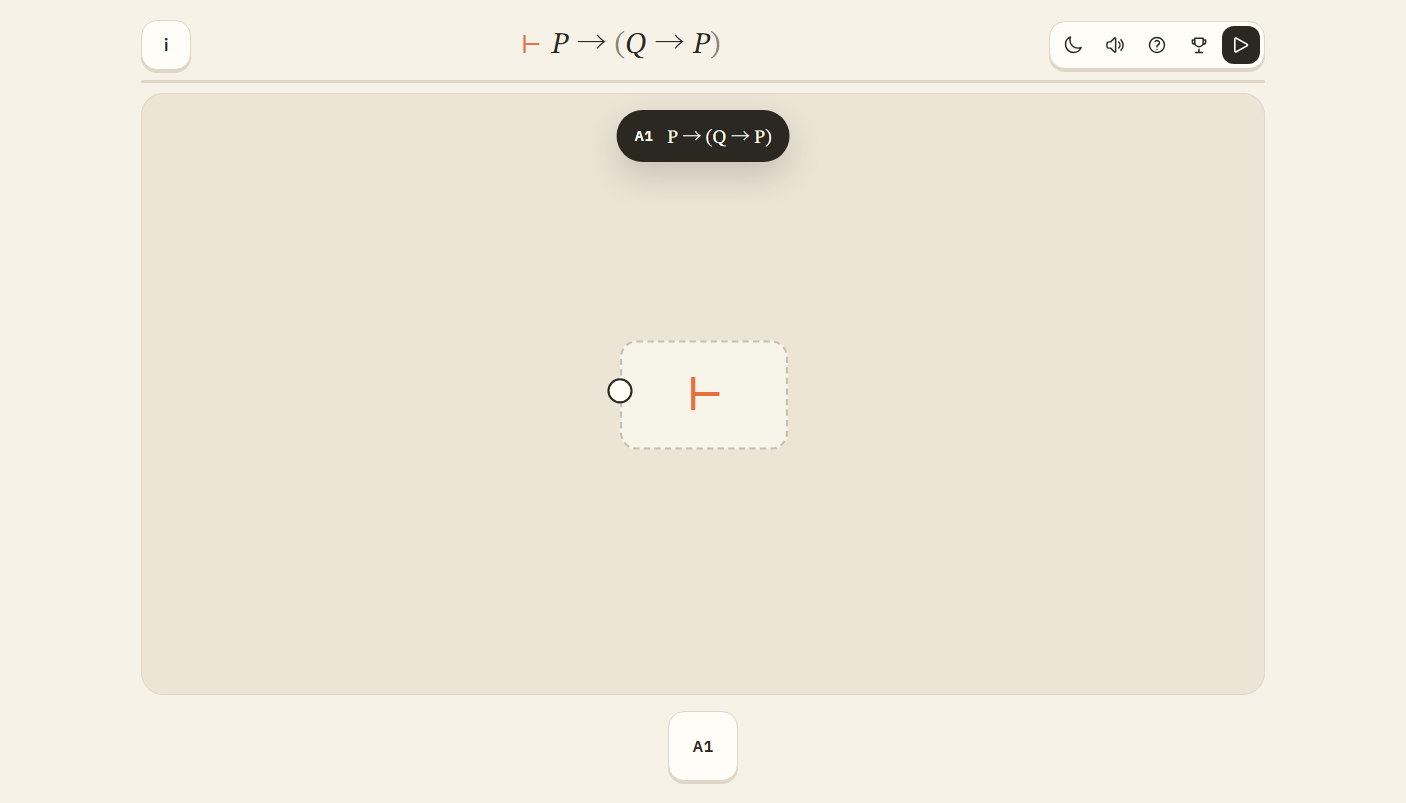
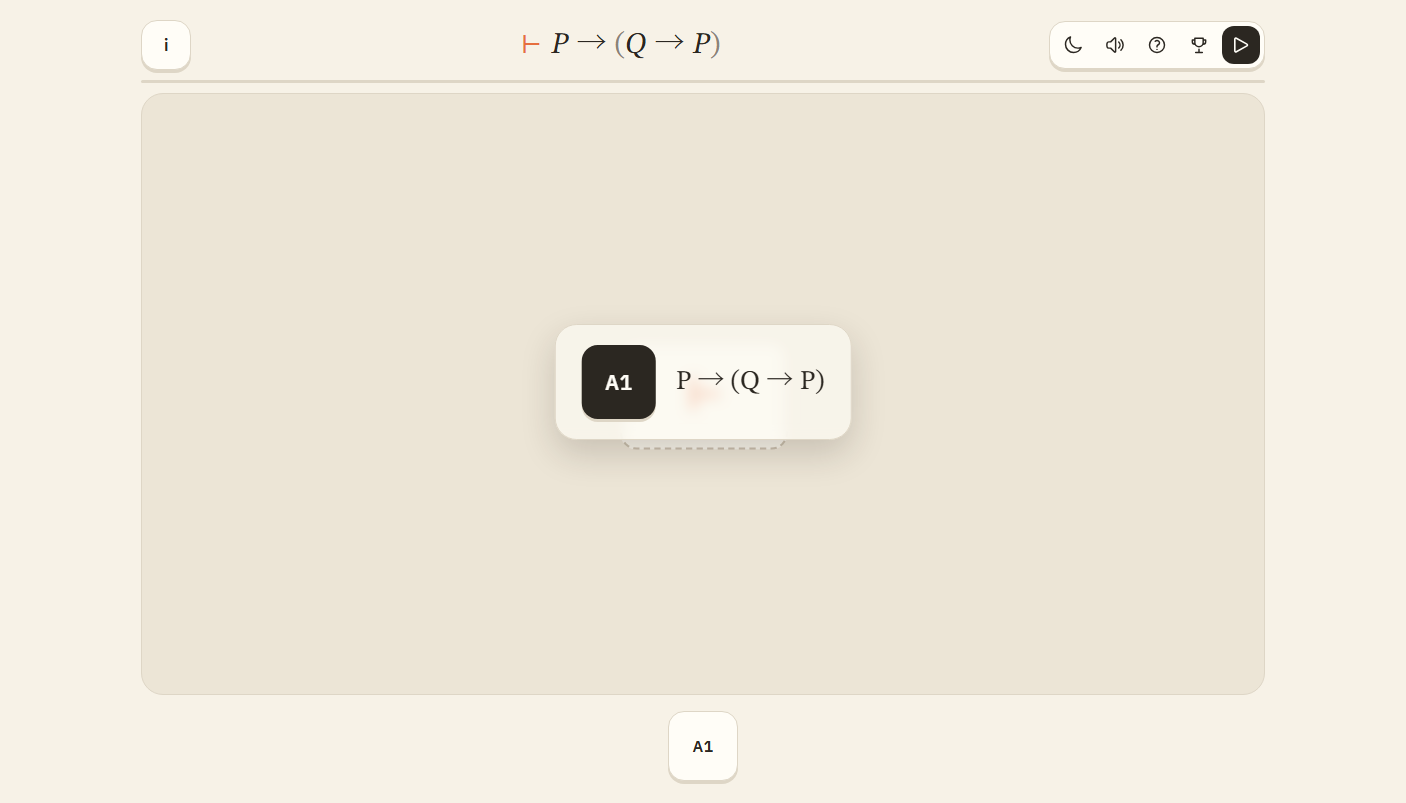
Center tutorial hint, enlarge tutorial chips, tame close-port wires
- tutorial tip is a centered glass card again: code tile + rule formula,
  dismiss on the first board interaction, no Chinese.
- level select third pass: beige sheet, white sticker chapter cards, big
  accent roman numerals, per-band progress removed, tutorial entries are
  larger accent pills instead of tiny roman text.
- adaptive wire stubs: when ports are closer than two stubs, the stub is
  shortened (or dropped) so A* no longer starts/ends past each other and
  loops; simple/cheap/draft paths share the same rule.
- refresh README screenshots and design notes for the centered hint and the
  new level-select layout.
- 114 levels compile, npm test 5/5, route 11/11, game-ui 28/28, acceptance
  green; .maintenance stays.

Changed region(s): [[0.3976, 0.4047, 0.5811, 0.5604], [0.4282, 0.1245, 0.5811, 0.2179]]

diff --git a/src/simple.css b/src/simple.css
@@ -520,18 +520,23 @@ button{font:inherit;color:inherit;border:0;background:none;padding:0;cursor:poin
 body.is-holding,
 body.is-holding *{cursor:grabbing!important}
 
-/* 教学关浮窗：只显示本关演示元件的代号与规则式，不放汉字 */
+/* 教学关浮窗：棋盘正中的规则卡，只显示本关元件的代号与规则式，不放汉字 */
 .tutorial-tip{
-  position:absolute;left:50%;top:16px;z-index:6;transform:translateX(-50%);
-  display:flex;align-items:center;gap:14px;max-width:calc(100vw - 32px);
-  padding:11px 18px;border-radius:var(--radius-pill);
-  background:var(--stamp-bg);color:var(--stamp-fg);
+  position:absolute;left:50%;top:48%;z-index:20;transform:translate(-50%,-50%);
+  display:flex;align-items:center;gap:20px;max-width:min(640px,calc(100vw - 40px));
+  padding:20px 26px;border-radius:var(--radius-lg);
+  background:var(--glass);border:1.5px solid var(--line);
   box-shadow:var(--pop-shadow);pointer-events:none;
+  -webkit-backdrop-filter:blur(7px);backdrop-filter:blur(7px);
   animation:tip-in .18s var(--ease);
 }
-.tip-code{font-family:var(--font);font-weight:600;font-size:14px;letter-spacing:.02em}
-.tip-flow{font-family:var(--math);font-size:19px;white-space:nowrap}
-@keyframes tip-in{from{opacity:0;transform:translate(-50%,-4px)}to{opacity:1;transform:translate(-50%,0)}}
+.tip-code{
+  display:grid;place-items:center;min-width:74px;height:74px;padding:0 14px;
+  border-radius:var(--radius);background:var(--stamp-bg);color:var(--stamp-fg);
+  box-shadow:var(--sticker);font-family:var(--font);font-weight:600;font-size:21px;letter-spacing:.02em;
+}
+.tip-flow{font-family:var(--math);font-size:clamp(18px,2.5vw,27px);line-height:1.25;color:var(--ink);white-space:normal}
+@keyframes tip-in{from{opacity:0;transform:translate(-50%,-50%) scale(.96)}to{opacity:1;transform:translate(-50%,-50%) scale(1)}}
 
 /* =========================================================================
  * 13 配置浮条 popover
@@ -651,72 +656,72 @@ body.is-holding *{cursor:grabbing!important}
  * 16 选关面板 levels
  * ========================================================================= */
 
-.sheet.sheet-levels{width:min(700px,100%)}
+.sheet.sheet-levels{
+  width:min(680px,100%);
+  background:var(--bg);border:1px solid var(--line);
+  box-shadow:var(--sheet-shadow);
+}
 
-.chapters{display:flex;flex-direction:column;gap:18px;padding-top:4px}
+.chapters{display:flex;flex-direction:column;gap:16px;padding-top:2px}
 
-/* 章节是一张贴纸卡：小罗马数字 + 进度线 + 计数，格子在卡内按 12 列排。 */
+/* 章节是白色贴纸卡，棋盘底色做背景：大罗马数字 + 细进度线 + 计数。 */
 .chapter{
-  background:var(--soft);border-radius:var(--radius-lg);
-  padding:15px 17px 16px;
+  background:var(--card);border:1.5px solid var(--line);
+  border-radius:var(--radius-lg);padding:14px 16px 16px;
+  box-shadow:var(--sticker);
 }
-.chapter-head{
-  display:flex;align-items:center;gap:12px;padding:0 2px 6px;
-}
-.chapter-roman{font-family:var(--math);font-size:25px;line-height:1;color:var(--ink);min-width:36px}
-.chapter-count{font-size:12px;font-weight:600;color:var(--muted);white-space:nowrap;font-variant-numeric:tabular-nums}
-.chapter-progress{
-  flex:1;height:2px;border-radius:2px;
-  background:var(--line);overflow:hidden;
-}
+.chapter-head{display:flex;align-items:center;gap:10px;padding:0 2px 8px}
+.chapter-roman{font-family:var(--math);font-size:30px;line-height:1;color:var(--accent);min-width:42px}
+.chapter-count{font-size:11px;font-weight:600;color:var(--muted);white-space:nowrap;font-variant-numeric:tabular-nums}
+.chapter-progress{flex:1;height:2px;border-radius:2px;background:var(--line);overflow:hidden}
 .chapter-progress i{display:block;height:100%;background:var(--accent);border-radius:2px}
-.chapter.is-current{box-shadow:inset 0 0 0 1.5px var(--accent-soft)}
-.chapter.is-current .chapter-roman{color:var(--accent)}
-.chapter.is-locked{opacity:.55}
+.chapter.is-current{border-color:var(--accent)}
+.chapter.is-locked{opacity:.5}
 .chapter.is-locked .chapter-roman{color:var(--muted)}
 
-/* 基础段 / 挑战段：图标 + 进度 + 计数；教学段用同一套图标语言。 */
-.band{margin-top:11px}
-.band-head{display:flex;align-items:center;gap:8px;padding:0 2px 6px}
-.band-glyph{display:grid;place-items:center;width:16px;height:16px;color:var(--muted)}
-.band-glyph .icon{width:16px;height:16px;stroke-width:var(--icon-stroke)}
+/* 分带只留行首图标与计数，进度由章节头承担。 */
+.band{margin-top:8px}
+.band-head{display:flex;align-items:center;gap:6px;padding:0 2px 5px}
+.band-glyph{display:grid;place-items:center;width:15px;height:15px;color:var(--muted)}
+.band-glyph .icon{width:15px;height:15px;stroke-width:var(--icon-stroke)}
 .band.tutorial .band-glyph,
 .band.challenge .band-glyph{color:var(--accent)}
-.band.is-locked .band-glyph{opacity:.45}
-.band-count{font-size:11px;color:var(--muted);opacity:.8;font-variant-numeric:tabular-nums}
-.band-progress{flex:1;height:2px;border-radius:2px;background:var(--line);overflow:hidden;margin-left:4px}
-.band-progress i{display:block;height:100%;background:var(--accent);opacity:.5;border-radius:2px}
+.band.is-locked .band-glyph{opacity:.4}
+.band-count{font-size:10px;color:var(--muted);opacity:.8;font-variant-numeric:tabular-nums;margin-left:auto}
 
-.levels{display:grid;grid-template-columns:repeat(12,42px);gap:8px;justify-content:start}
-.band .levels{padding-top:5px}
+.levels{display:grid;grid-template-columns:repeat(12,42px);gap:7px;justify-content:start}
+.band .levels{padding-top:2px}
+.band.tutorial .levels{grid-template-columns:repeat(5,52px);gap:8px;align-items:center}
 
 /* 关卡格只保留四种语义：默认 / 已通关 / 当前 / 锁定。 */
 .level-cell{
-  position:relative;width:42px;height:42px;border-radius:12px;
-  background:var(--card);color:var(--muted);
+  position:relative;width:42px;height:42px;border-radius:11px;
+  background:var(--soft);color:var(--muted);
   font-size:13px;font-weight:600;
   transition:background .12s var(--ease),color .12s var(--ease),transform .12s var(--ease),box-shadow .12s var(--ease);
 }
 /* hover/active 写在状态类之前：同一权重下状态颜色优先 */
-.level-cell:hover{transform:translateY(-1px);color:var(--ink);background:var(--card);box-shadow:var(--sticker-hover)}
+.level-cell:hover{transform:translateY(-1px);color:var(--ink);background:var(--soft-hover);box-shadow:var(--sticker-hover)}
 .level-cell:active{transform:translateY(1px)}
 .level-cell:focus-visible{outline:2px solid var(--accent);outline-offset:2px}
 .level-cell.is-solved{background:var(--accent-soft);color:var(--ink)}
 .level-cell.is-current{background:var(--stamp-bg);color:var(--stamp-fg)}
-/* 教学关：小写罗马数字，用界面字体，不跟公式斜体混在一起 */
+/* 教学关：拉长成小胶囊，罗马数字用界面字体 */
 .level-cell.is-tutorial{
-  font-family:var(--font);font-style:normal;font-size:11px;font-weight:600;
-  letter-spacing:.05em;background:var(--accent-soft);color:var(--accent);
+  width:52px;height:34px;border-radius:var(--radius-pill);
+  font-family:var(--font);font-style:normal;font-size:14px;font-weight:600;
+  letter-spacing:.08em;background:var(--accent-soft);color:var(--accent);
 }
-.level-cell.is-tutorial.is-current{background:var(--stamp-bg);color:var(--stamp-fg)}
+.level-cell.is-tutorial:hover{background:var(--accent-soft);box-shadow:var(--sticker)}
+.level-cell.is-tutorial.is-current{background:var(--stamp-bg);color:var(--stamp-fg);box-shadow:none}
 .level-cell.is-tutorial.is-solved{background:var(--accent-soft);color:var(--ink)}
 
 /* 锁定态放最后：盖住 hover / solved / current 的底色 */
 .level-cell.is-locked{
-  background:transparent;color:var(--muted);opacity:.45;
-  cursor:not-allowed;border:1px dashed var(--line);
+  background:transparent;color:var(--muted);opacity:.4;
+  cursor:not-allowed;border:1px dashed var(--line);box-shadow:none;
 }
-.level-cell.is-locked:hover{transform:none;color:var(--muted);background:transparent}
+.level-cell.is-locked:hover{transform:none;color:var(--muted);background:transparent;box-shadow:none}
 
 
 /* 效率条：宽度由 --effpx 内联变量给出 */
@@ -993,6 +998,8 @@ body.is-holding *{cursor:grabbing!important}
 
   .levels{grid-template-columns:repeat(6,42px);gap:8px}
   .level-cell{width:42px;height:42px;border-radius:12px}
+  .band.tutorial .levels{grid-template-columns:repeat(5,48px);gap:7px}
+  .level-cell.is-tutorial{width:48px;height:34px;font-size:13px}
 
   .chapters{gap:14px;padding-top:2px}
   .chapter{padding:13px 13px 14px;border-radius:var(--radius)}
@@ -1024,6 +1031,8 @@ body.is-holding *{cursor:grabbing!important}
   .letter-grid{grid-template-columns:repeat(5,minmax(0,1fr));gap:6px}
   .letter-grid .opt{height:44px;font-size:18px}
   .levels{grid-template-columns:repeat(4,42px)}
+  .band.tutorial .levels{grid-template-columns:repeat(5,44px);gap:6px}
+  .level-cell.is-tutorial{width:44px;height:32px;font-size:12px}
   .sheet{padding:50px 16px 18px}
   .help-cards{grid-template-columns:1fr}
   .win-formula{font-size:19px}

diff --git a/src/board.js b/src/board.js
@@ -721,9 +721,12 @@
     }
     var fromId = this.draft && this.draft.from ? this.draft.from.node : null;
     var group = this.draft && this.draft.from ? (this.draft.from.node + '|' + this.draft.from.port) : '';
-    var start = { x: a.x + ROUTE.stub, y: a.y };
-    var pts = Route.route(start, b, rects || this._rects(), this._lastUsed || {}, group, { fromId: fromId, toId: null });
-    pts.unshift({ x: a.x, y: a.y });
+    var s = wireStubPoints(a, b);
+    var pts = Route.route(s.a, s.b, rects || this._rects(), this._lastUsed || {}, group, { fromId: fromId, toId: null });
+    if (s.stub > 0) {
+      pts.unshift({ x: a.x, y: a.y });
+      pts.push({ x: b.x, y: b.y });
+    }
     d.setAttribute('d', Route.pathPoints(pts));
   };
 
@@ -772,16 +775,32 @@
   /* Full routing pass: A* for every edge, ordered by span so short wires lay
    * down first. Rebuilds the SVG layer (wire elements are cheap and stable). */
   /* 简单正交折线：重放关的参考电路可能有几百条导线，不需要逐条 A* 避障。 */
+  /* 端点很近时缩短出线/入线 stub，避免两个 stub 互相越过、A* 在端口之间来回绕。 */
+  function wireStubPoints(a, b) {
+    var stub = ROUTE.stub;
+    var dx = b.x - a.x;
+    if (dx >= 0) {
+      stub = Math.min(stub, Math.max(0, dx / 2 - 4));
+      if (dx < 16) stub = 0;
+    }
+    return {
+      a: { x: a.x + stub, y: a.y },
+      b: { x: b.x - stub, y: b.y },
+      stub: stub
+    };
+  }
+
   function simpleWirePoints(a, b) {
-    var stub = 18;
-    var x1 = a.x + stub;
-    var x2 = b.x - stub;
+    var s = wireStubPoints(a, b);
+    var x1 = s.a.x, x2 = s.b.x;
     if (x2 < x1) x2 = x1;
     var mx = Math.round((x1 + x2) / 2);
-    return [
-      { x: a.x, y: a.y }, { x: x1, y: a.y }, { x: mx, y: a.y },
-      { x: mx, y: b.y }, { x: x2, y: b.y }, { x: b.x, y: b.y }
-    ];
+    var pts = [{ x: a.x, y: a.y }];
+    if (s.stub > 0) pts.push({ x: x1, y: a.y });
+    pts.push({ x: mx, y: a.y }, { x: mx, y: b.y });
+    if (s.stub > 0) pts.push({ x: x2, y: b.y });
+    pts.push({ x: b.x, y: b.y });
+    return pts;
   }
 
   Board.prototype._updateWires = function (mode, movedIds) {
@@ -833,12 +852,13 @@
     entries.sort(function (e1, e2) { return e1.dist - e2.dist; });
     entries.forEach(function (x) {
       var e = x.e;
-      var aStub = { x: x.a.x + ROUTE.stub, y: x.a.y };
-      var bStub = { x: x.b.x - ROUTE.stub, y: x.b.y };
+      var s = wireStubPoints(x.a, x.b);
       var group = e.from.node + '|' + e.from.port;
-      var pts = Route.route(aStub, bStub, rects, used, group, { fromId: e.from.node, toId: e.to.node });
-      pts.unshift({ x: x.a.x, y: x.a.y });
-      pts.push({ x: x.b.x, y: x.b.y });
+      var pts = Route.route(s.a, s.b, rects, used, group, { fromId: e.from.node, toId: e.to.node });
+      if (s.stub > 0) {
+        pts.unshift({ x: x.a.x, y: x.a.y });
+        pts.push({ x: x.b.x, y: x.b.y });
+      }
       routes[e.id] = pts;
     });
     this.edges.forEach(function (e) {
@@ -880,9 +900,12 @@
       var a = self._portPoint(e.from.node, e.from.port, worldRect);
       var b = self._portPoint(e.to.node, e.to.port, worldRect);
       if (!a || !b) return;
-      var pts = Route.simplePoints(a.x + ROUTE.stub, a.y, b.x - ROUTE.stub, b.y);
-      pts.unshift({ x: a.x, y: a.y });
-      pts.push({ x: b.x, y: b.y });
+      var s = wireStubPoints(a, b);
+      var pts = Route.simplePoints(s.a.x, s.a.y, s.b.x, s.b.y);
+      if (s.stub > 0) {
+        pts.unshift({ x: a.x, y: a.y });
+        pts.push({ x: b.x, y: b.y });
+      }
       var d = Route.pathPoints(pts);
       els.path.setAttribute('d', d);
       els.hit.setAttribute('d', d);

diff --git a/src/screens.js b/src/screens.js
@@ -70,7 +70,6 @@
     return '<div class="band ' + kind + (firstLocked ? ' is-locked' : '') + '">' +
       '<div class="band-head">' +
         '<span class="band-glyph"><svg class="icon"><use href="#' + glyph + '"></use></svg></span>' +
-        '<span class="band-progress" aria-hidden="true"><i style="width:' + (solved / items.length * 100) + '%"></i></span>' +
         '<span class="band-count">' + solved + ' / ' + items.length + '</span>' +
       '</div>' +
       '<div class="levels">' + bandCells(items) + '</div>' +

diff --git a/docs/DESIGN.md b/docs/DESIGN.md
@@ -61,10 +61,10 @@
   拆成游离 draft，可拖到别的输入端重接；松手在空白处则丢弃，不留半截导线。
 - **帮助面板**：顶部三个图标（取模块 / 接线 / 校验，不配文字），下面只列推理规则的
   “代号 + 公式”图例（S/M/∀*/∀E*/∃I*/∃E/=I/=L）；不列变元、连接词或公理。存档/读档只保留图标按钮。
-- **选关面板**：每章是一张贴纸卡（罗马数字 + 进度线 + 计数），卡内按教学 / 普通 / 进阶
-  三行排 12 列关卡格；关卡格只留编号，教学格用强调色与小写罗马数字。
-- **教学浮窗**：进入教学关时在棋盘顶部显示本关元件的代号与规则式（如 `A1 P→(Q→P)`），
-  只使用符号/Latin，点击任意处消失。
+- **选关面板**：每章是一张白色贴纸卡（大罗马数字 + 细进度线 + 计数），卡内按教学 / 普通 /
+  进阶三行排关卡；普通/进阶是 12 列方块，教学关是强调色小胶囊，不再重复分带进度条。
+- **教学浮窗**：进入教学关时在棋盘正中显示一张玻璃卡，左边是本关元件的代号贴纸，右边是规则式
+  （如 `A1` + `P→(Q→P)`）；只使用符号/Latin，点击任意处消失。
 - **成就面板**：20 个图标格（未解锁是问号）；名称与条件只在点开后的详情里出现。
 - **原子选择器**：7 个命题变元 `P…V` 用网格换行（桌面 7 列、移动 6 列、窄屏 5 列），不做横向长条。
 - **合并元件**：原子、个体、谓词、全称、存在在托盘里各只占一个 tile；具体变体（P/Q、x/y、F/=、∀x/∀y、∃x/∃y）

diff --git a/README.md b/README.md
@@ -49,7 +49,7 @@
 | Ⅲ | 等词：等词自反、Leibniz 替换 | i–iv | \*49–\*60 | \*61–\*72 |
 | Ⅳ | 集合论：∈、外延/空集/配对/并集 | i–iv | \*73–\*84 | \*85–\*96 |
 
-教学关每关只演示一个元件，参考证明大多一步直连，最长 12 步。进入教学关时，棋盘顶部会出现一个浮窗，显示本关元件的代号和规则式，例如 `A1 P→(Q→P)`；点一下棋盘就收起。
+教学关每关只演示一个元件，参考证明大多一步直连，最长 12 步。进入教学关时，棋盘正中会出现一张浮窗，左边是本关元件的代号，右边是规则式（例如 `A1` 与 `P→(Q→P)`）；点一下棋盘就收起。
 
 <p align="center">
   <img src="screenshots/tutorial.png" width="760" alt="教学关浮窗：只显示元件代号与规则式">
